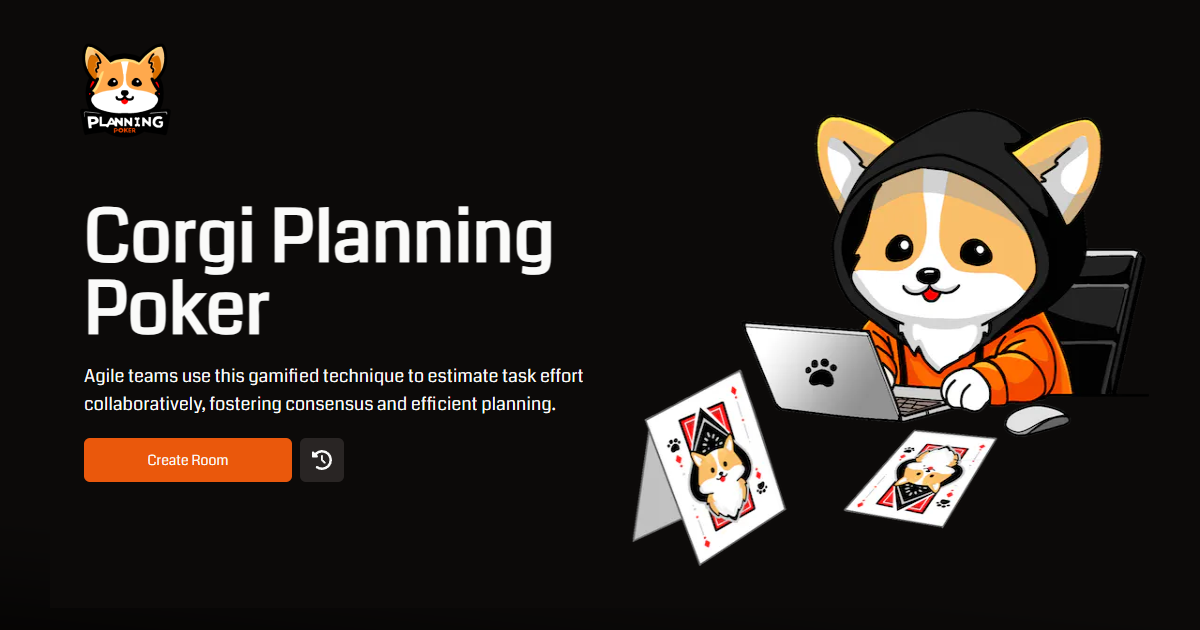
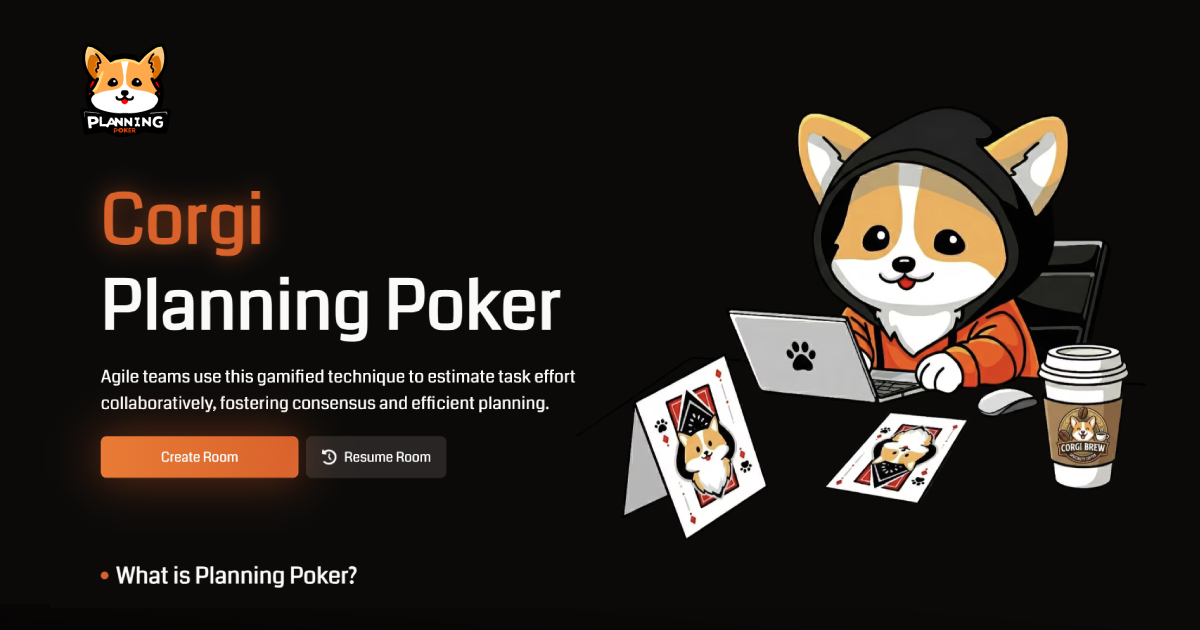
feat: update home page content and polish navbar/room layout
- Add cross-platform sync and spectator mode to features section
- Expand FAQ: sign-in benefit, spectator mode, room expiry (30 days), favourite decks
- Compact navbar, remove divider, room content gets paper-shadow + rounded-t-2xl

diff --git a/src/components/Home/Home.tsx b/src/components/Home/Home.tsx
@@ -4,8 +4,10 @@ import {
   faBolt,
   faClockRotateLeft,
   faCode,
+  faEye,
   faInfinity,
   faLayerGroup,
+  faSyncAlt,
   faUnlockKeyhole,
 } from '@fortawesome/free-solid-svg-icons'
 import { FontAwesomeIcon } from '@fortawesome/react-fontawesome'
@@ -59,6 +61,16 @@ const FEATURES = [
     description: 'Use the default Fibonacci deck, T-shirt sizes, or create your own custom values.',
   },
   {
+    icon: faSyncAlt,
+    title: 'Cross-platform sync',
+    description: 'Sign in with Google to link your identity across devices. Resume any room from your phone, tablet, or laptop — your history follows you.',
+  },
+  {
+    icon: faEye,
+    title: 'Spectator mode',
+    description: 'Join a room as a silent observer without casting votes. Sit down at any time when you\'re ready to participate.',
+  },
+  {
     icon: faCode,
     title: 'Open source',
     description: 'The full source code is publicly available on GitHub.',
@@ -73,11 +85,19 @@ const FAQS = [
   },
   {
     q: 'Do I need to create an account?',
-    a: 'No account is required to create or join a room. You can optionally sign in with Google to save your recent rooms for quick access later.',
+    a: 'No account is required. Every visitor is automatically assigned a unique guest ID so you can create and join rooms instantly. Signing in with Google links that ID to your Google account, which syncs your identity across browsers and devices — so you can resume any recent room from your phone, laptop, or any other device without losing your history.',
   },
   {
     q: 'What card decks are available?',
-    a: 'Four preset decks are built in: Fibonacci (1, 2, 3, 5, 8, 13, 21, 34), T-Shirt (XS, S, M, L, XL, XXL), Powers of 2 (1, 2, 4, 8, 16, 32, 64), and Hours (1, 2, 4, 8, 16, 24, 40). You can also create a fully custom deck by entering any comma-separated values when creating a room.',
+    a: 'Four preset decks are built in: Fibonacci (1, 2, 3, 5, 8, 13, 21, 34), T-Shirt (XS, S, M, L, XL, XXL), Powers of 2 (1, 2, 4, 8, 16, 32, 64), and Hours (1, 2, 4, 8, 16, 24, 40). You can also create a fully custom deck by entering any comma-separated values. Mark any deck as a favourite and it will be auto-selected the next time you create a room.',
+  },
+  {
+    q: 'Can I watch a session without voting?',
+    a: 'Yes. When joining a room you can choose "Watch as spectator" to observe without casting a vote. You can sit down and join the voting at any point during the session.',
+  },
+  {
+    q: 'How long does a room last?',
+    a: 'Rooms are automatically removed after 30 days of inactivity. As long as your team uses a room at least once a month, it stays available.',
   },
   {
     q: 'Is Corgi Planning Poker free?',

diff --git a/src/components/NewRoom/NewRoom.tsx b/src/components/NewRoom/NewRoom.tsx
@@ -23,7 +23,7 @@ import { useToast } from '../ui/use-toast'
 const FAVORITES_STORAGE_KEY = 'desk-favorites'
 
 const PRESET_DESK_CONFIGS: DeskConfig[] = [
-  { id: 'fibonacci', displayName: '🔢 Fibonacci', value: '1, 2, 3, 5, 8, 13, 21, 34', group: 'preset' },
+  { id: 'fibonacci', displayName: '🃏 Fibonacci', value: '1, 2, 3, 5, 8, 13, 21, 34', group: 'preset' },
   { id: 'tshirt', displayName: '👕 T-Shirt', value: 'XS, S, M, L, XL, XXL', group: 'preset' },
   { id: 'powers-of-2', displayName: '⚡ Powers of 2', value: '1, 2, 4, 8, 16, 32, 64', group: 'preset' },
   { id: 'hours', displayName: '⏱ Hours', value: '1, 2, 4, 8, 16, 24, 40', group: 'preset' },

diff --git a/src/components/Navbar/Navbar.tsx b/src/components/Navbar/Navbar.tsx
@@ -11,8 +11,8 @@ import { Skeleton } from '../ui/skeleton'
 const Navbar = () => {
   const { data: session, status } = useSession()
   return (
-    <header className="container mx-auto border-b border-border/40 px-2 py-4 sm:px-8">
-      <nav className="flex items-start justify-between">
+    <header>
+      <nav className="container mx-auto flex items-center justify-between px-2 py-2 sm:px-8">
         <Link href="/" className="transition-transform duration-200 hover:scale-110 inline-block">
           <Image
             className="cursor-pointer"

diff --git a/src/components/Room/Room.tsx b/src/components/Room/Room.tsx
@@ -196,7 +196,7 @@ const Room = ({ roomId, sessionId, avatar, userName }: Props) => {
 
   return (
     <>
-      <div className="flex min-h-[calc(100dvh-92px*2)] min-w-[700px]">
+      <div className="flex min-h-[calc(100dvh-92px*2)] min-w-[700px] rounded-t-2xl bg-muted/10 shadow-md">
 
         {/* ── Main column ── */}
         <div className="flex flex-1 flex-col">
